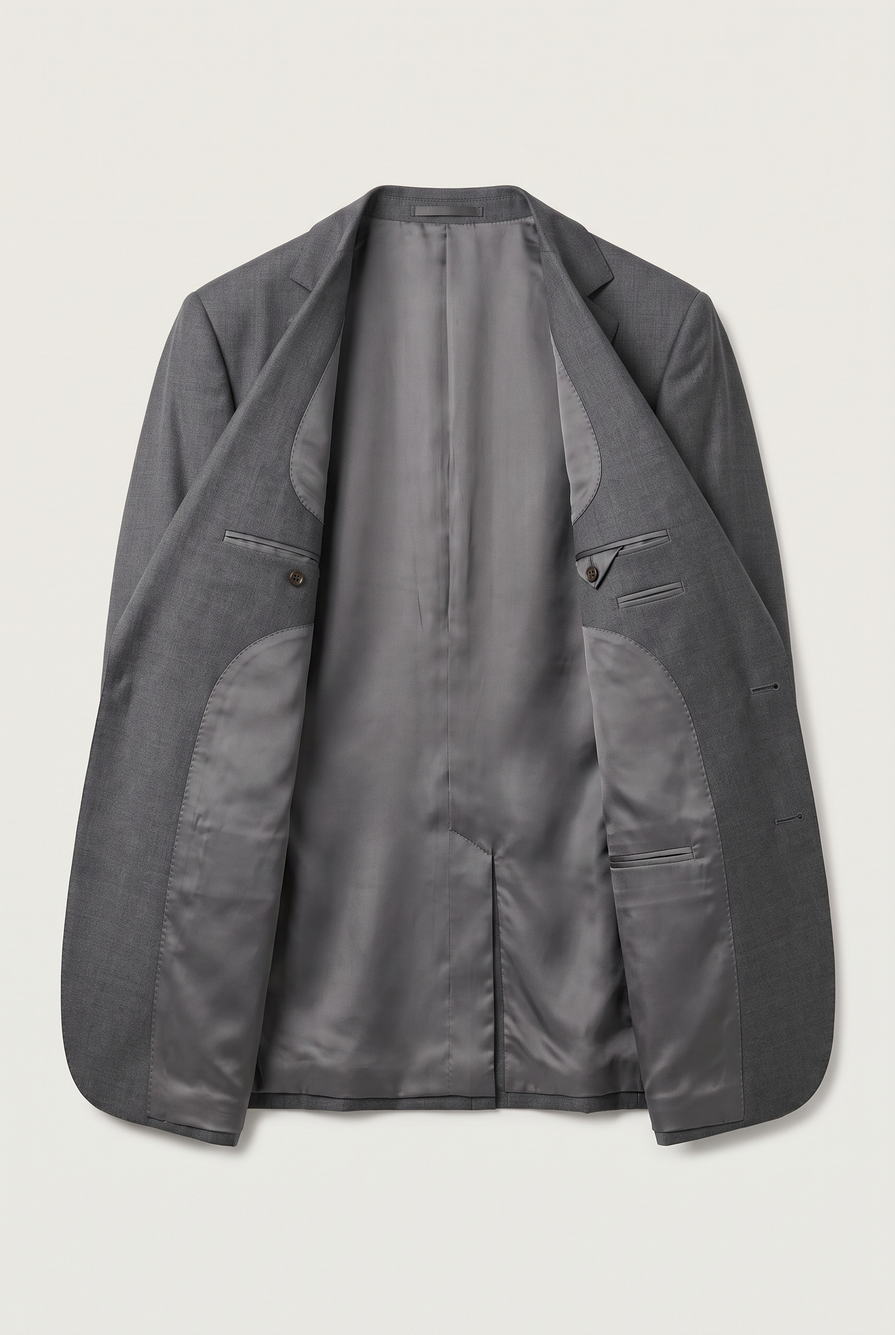
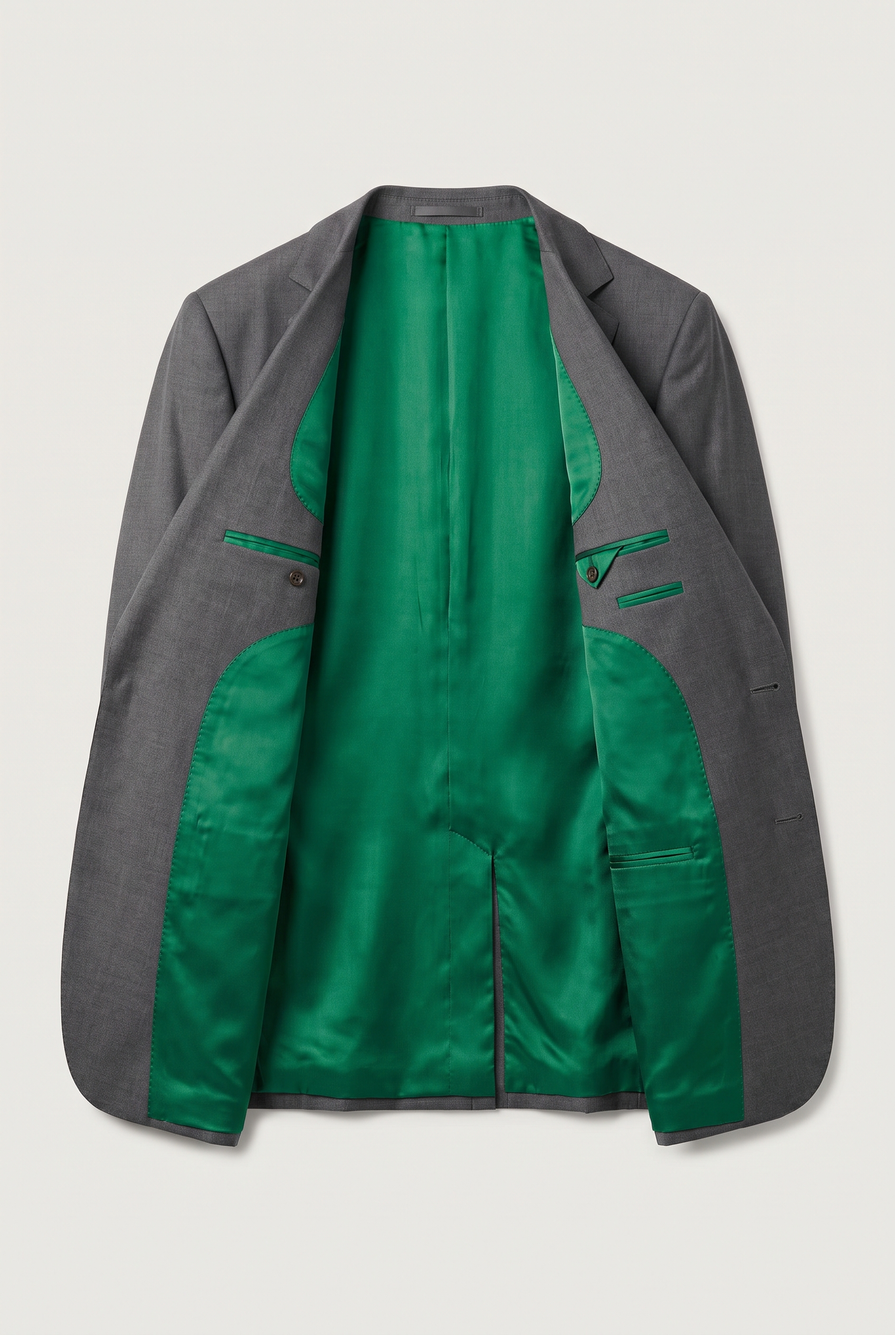
Suit imagery: emerald-lined inside view (re-colourable lining), prompts + workflow docs
Claude-Session: https://claude.ai/code/session_018gZGfgQVQEqPriUChi2SZJ

diff --git a/design/nano-banana/README.md b/design/nano-banana/README.md
@@ -4,28 +4,29 @@ Every photograph used by the custom-suit experience is generated with **Nano Ban
 (`gemini-3-pro-image`) in Google AI Studio, then processed by scripts in this repo. The exact
 prompts are in `prompts.json` (one entry per asset, self-contained). This file explains the system.
 
-## 1. What the customizer needs
+## 1. What the customizer needs (and what is live)
 
-| View | Assets (one base photo each) | Driven by |
+| View | Photo assets (`design/nano-banana/out/`) | Driven by |
 |---|---|---|
-| **Front** (jacket + folded trousers, flat-lay) | sb2-notch, sb1-notch, sb1-peak, sb1-shawl, sb2-peak, sb3-notch, db4-peak, db6-peak, mandarin; pocket variants (jetted, patch) | `jacket.closure`, `jacket.lapel`, `jacket.pockets` |
-| **Back** (jacket back + trousers) | vents none / centre / side | `jacket.vents` |
-| **Inside** (jacket laid open) | full lining, half lining, unlined | `accents.liningStyle`, lining colour |
-| **Waistcoat** | single-breasted 5-button, double-breasted 6-button | `waistcoat.style` |
-| **Hero / marketing** | 3 editorial on-model portraits | landing page carousel |
+| **Front** | `front-sb2-notch` (base), `front-sb1-notch`, `front-sb1-peak`, `front-sb1-shawl`, `front-sb2-peak`, `front-sb3-notch`, `front-db6-peak`, `front-mandarin`, `front-sb2-jetted`, `front-sb2-patch` | closure, lapel, pockets |
+| **Back** | `back-none`, `back-centre`, `back-side` | vents |
+| **Inside** | `inside` (emerald satin so the lining can be re-coloured) | lining colour |
+| **Waistcoat** | `waistcoat-sb5` | waistcoat style |
+| **Hero** | 3 on-model portraits (`public/photos/custom-suits/`) | landing carousel |
 
-Details that are too small to photograph per combination (lapel width, buttonhole thread, pick
-stitching, monogram) stay on the technical drawings (the "Flat" tab).
+Base look: an **invisible-mannequin** luxury suit (Super 120s worsted, neutral grey `#9A9A9A`,
+tonal satin lining, horn buttons) on a seamless light neutral backdrop. Every variant is an
+**edit of the base image in the same chat** ("keep everything identical, change only …") so all
+states are the same garment, same scale, same light.
 
-Every base photo shares one **style block**: overhead orthographic flat-lay, seamless neutral grey
-`#EEEEEE` backdrop, soft even light, **neutral mid-grey plain worsted** (`#A3A3A3`), **emerald satin
-lining** (`#1E9E4A`), **matte black horn buttons**. Neutral cloth + a saturated lining make the
-photos re-colourable without bleeding:
+Options without a production-quality photo (double-breasted 4-button, double-breasted
+waistcoat, lapelled waistcoats, trousers details, monogram, buttonholes, lapel width) switch the
+stage to the **Detail** drawing, which renders every option exactly.
 
-- `rembg` ISNet produces the garment cut-out (excludes the contact shadow),
-- the emerald chroma isolates the lining,
-- dark round blobs isolate buttons,
-- the rest is cloth, whose luminance (folds, seams, pressing) multiplies the chosen fabric texture.
+Re-colouring (`scripts/build-suit-photos.py` → `components/suit/PhotoPreview.tsx`):
+`rembg` ISNet matte for the garment outline (the backdrop and contact shadow are never dyed),
+Hough-circle detection for horn buttons (kept as photographed), emerald chroma for the inside
+lining, and the grey cloth's smoothed luminance multiplied by the chosen fabric texture.
 
 ## 2. Fabrics — established, commercially popular options only
 

diff --git a/CLAUDE.md b/CLAUDE.md
@@ -92,9 +92,10 @@ Approved and exact. Do not invent alternatives.
 - `components/suit/SuitPreview.tsx` draws every visible option; add drawing there when adding an
   option that changes the silhouette. Cloth textures: `public/textures/fabrics/<id>.jpg`, generated by
   `python3 scripts/generate-fabric-textures.py` — rerun it when adding a fabric.
-- The stage's default **On model** view (`components/suit/ModelPreview.tsx`) re-dyes studio photos:
-  sources in `design/model-src/`, built by `python3 scripts/build-model-poses.py` into `public/model/` +
-  `lib/suit/model-poses.json`; `choosePose()` picks the photo for a configuration.
+- The stage's photo views (`components/suit/PhotoPreview.tsx`) re-dye Nano Banana Pro product photos:
+  sources + prompts in `design/nano-banana/`, built by `python3 scripts/build-suit-photos.py` into
+  `public/suit-photos/` + `lib/suit/photo-assets.json`; `choosePhoto()` maps a configuration to a photo
+  (null → the Detail drawing).
 - Orders: `source: "custom"` with `suits[]`, `fitProfile`, `delivery`, `paymentPlan`. Reconcile is
   amount-aware (deposits). See `.factory/DECISIONS.md` 2026-09-24.
 - Promo codes & gift cards: `lib/promo-shared.ts` (maths, client-safe), `lib/promo.ts` (server),

diff --git a/.factory/DECISIONS.md b/.factory/DECISIONS.md
@@ -107,3 +107,13 @@ drawing stands in), fabric "looks" photos, body-profile photo upload (would need
   the flat drawings ("Flat", "Flat back", "Inside", "Waistcoat"), which still render every option.
   Swapping in a real photoshoot later = same poses, same file names, re-run the script.
 - Bag, checkout, admin and saved-design thumbnails keep the flat drawing (no canvas work in lists).
+
+## 2026-09-25 — Photographic configurator (Nano Banana Pro)
+
+- The on-model re-dye (ModelPreview) was rejected by the owner (low resolution, bleeding, cheap-looking
+  suits). The stage now shows **Nano Banana Pro invisible-mannequin product photos** of a luxury grey
+  suit, re-dyed per fabric in the browser (`PhotoPreview`). Front / Back / Inside / Waistcoat views use
+  photos; "Detail" is the technical drawing. Prompts + workflow: `design/nano-banana/`.
+- Review step has a direct **Checkout** (measurements → checkout → TaifaPay: M-Pesa, card, bank;
+  full or 50% deposit). Payment copy no longer claims KES-only (owner is enabling USD card payments).
+- Site-wide alternating white/cream section backgrounds (`app/globals.css`).
